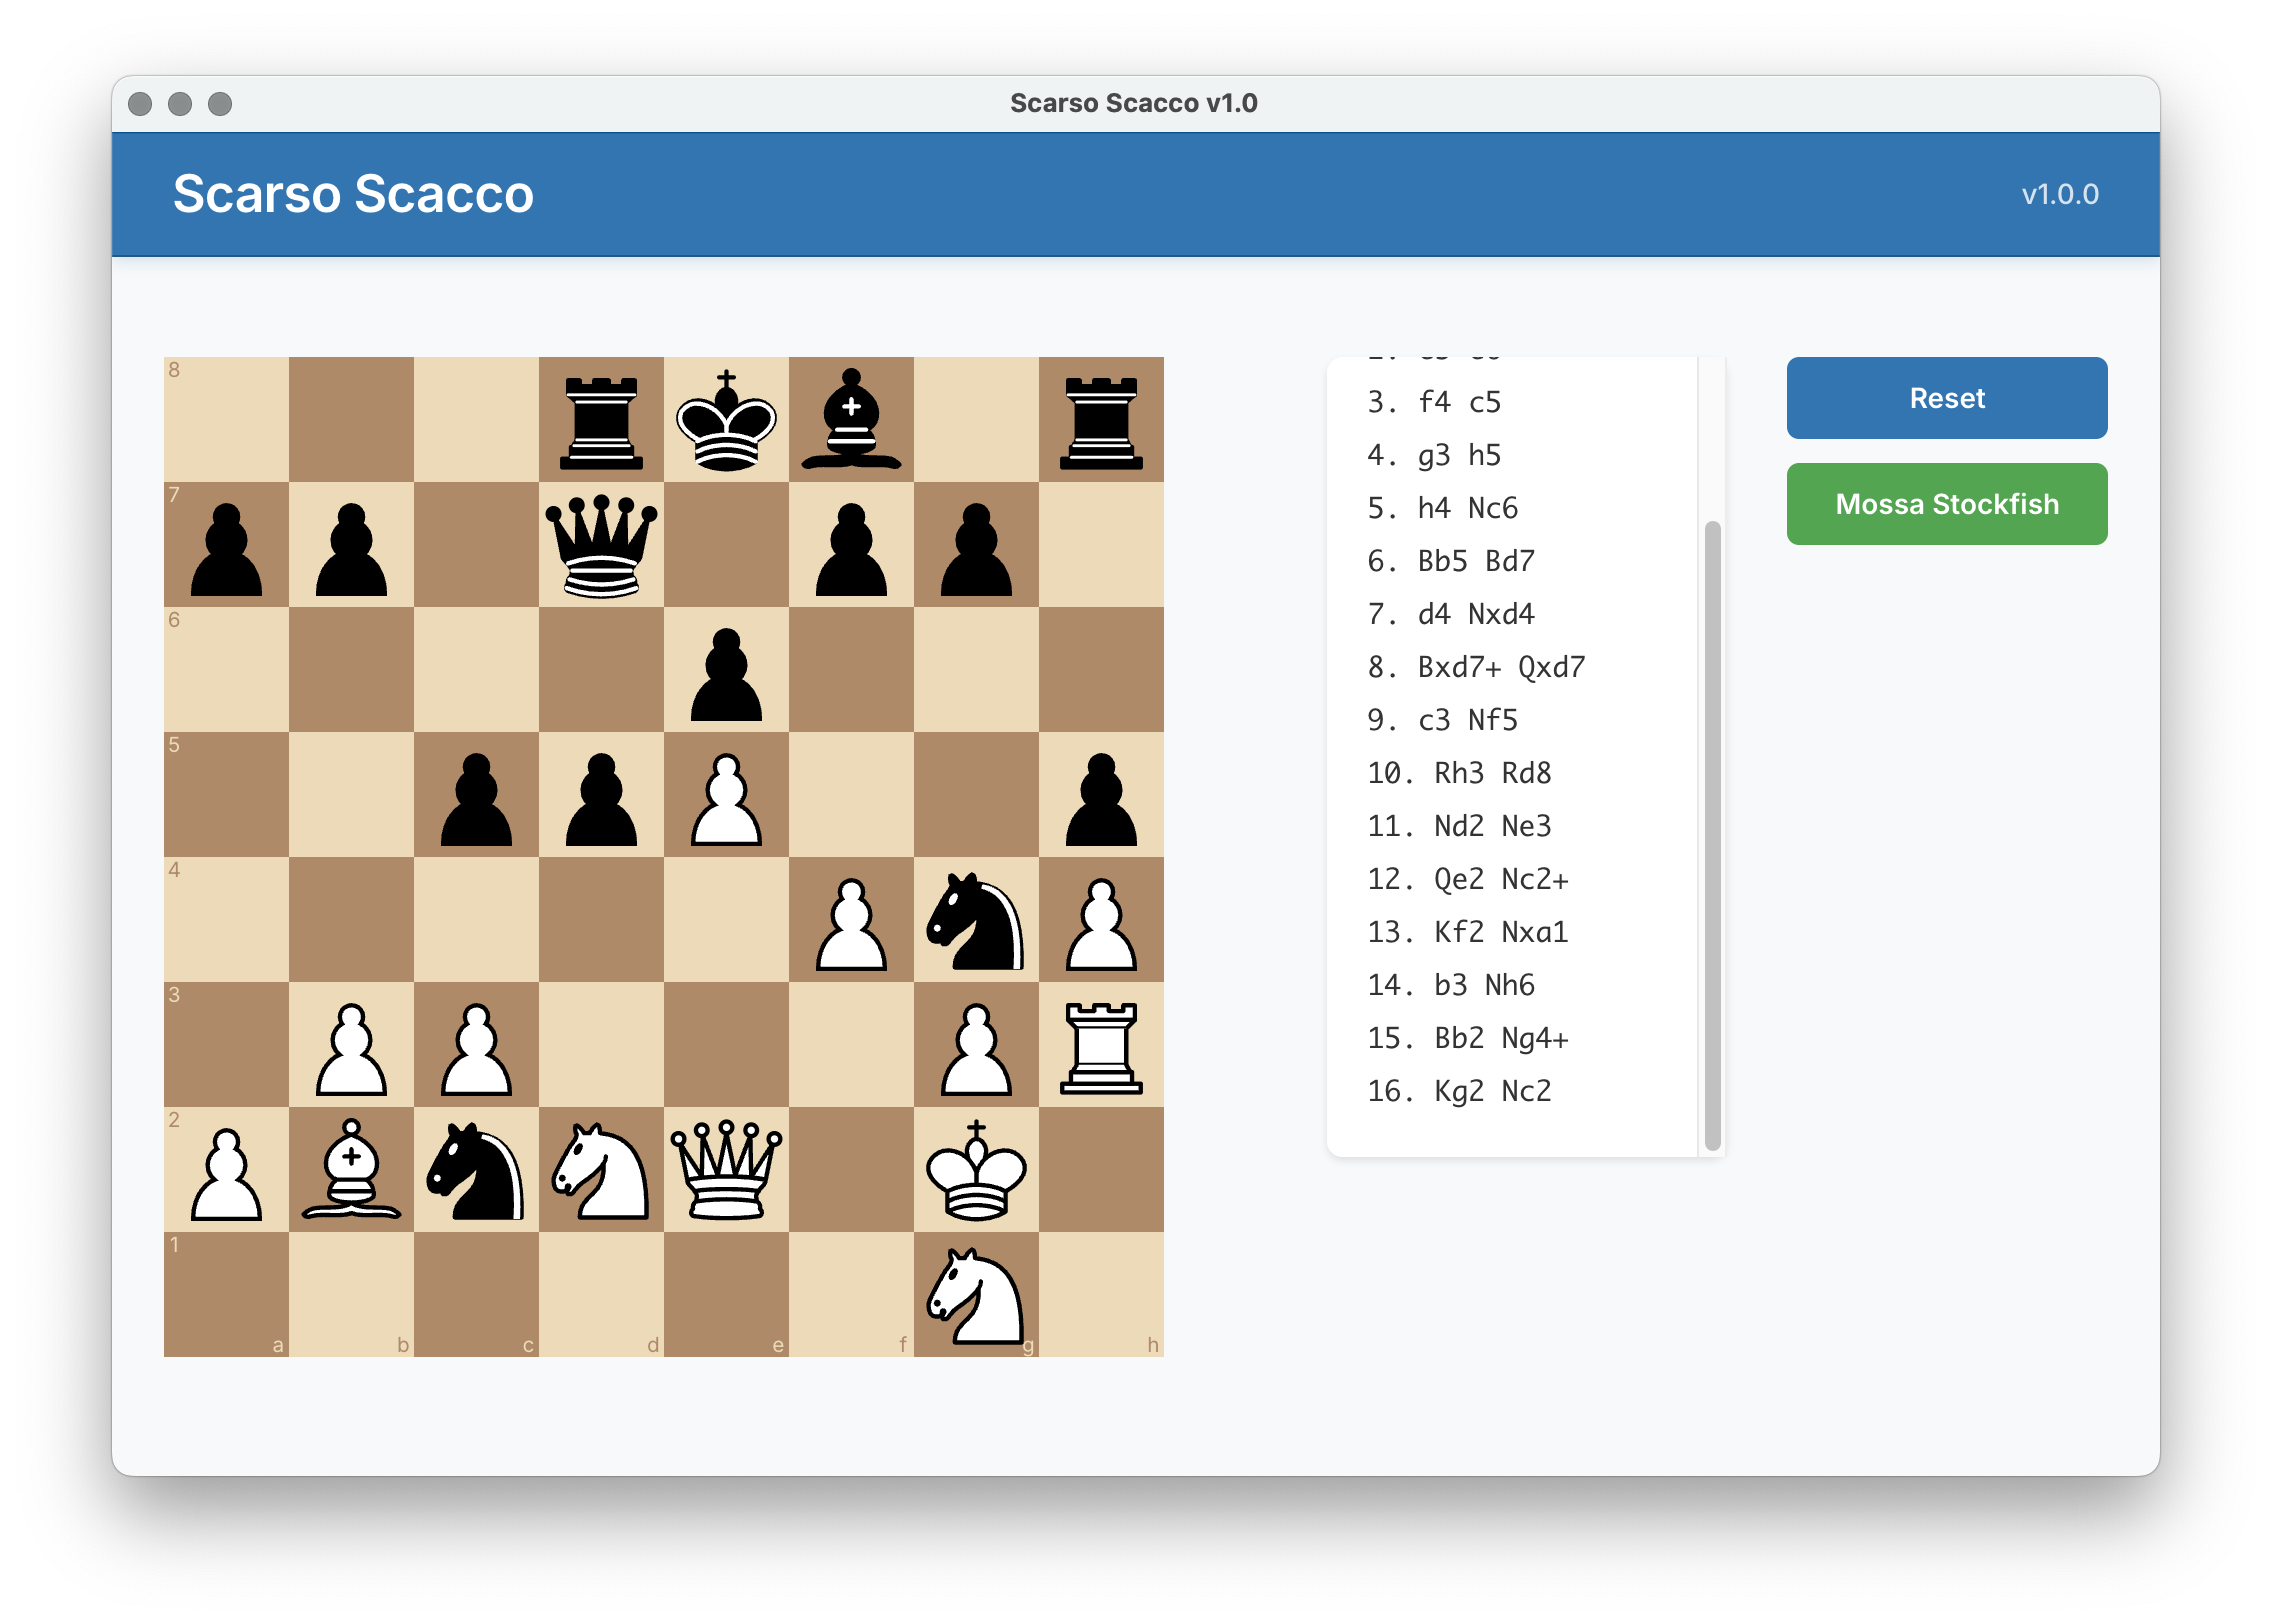
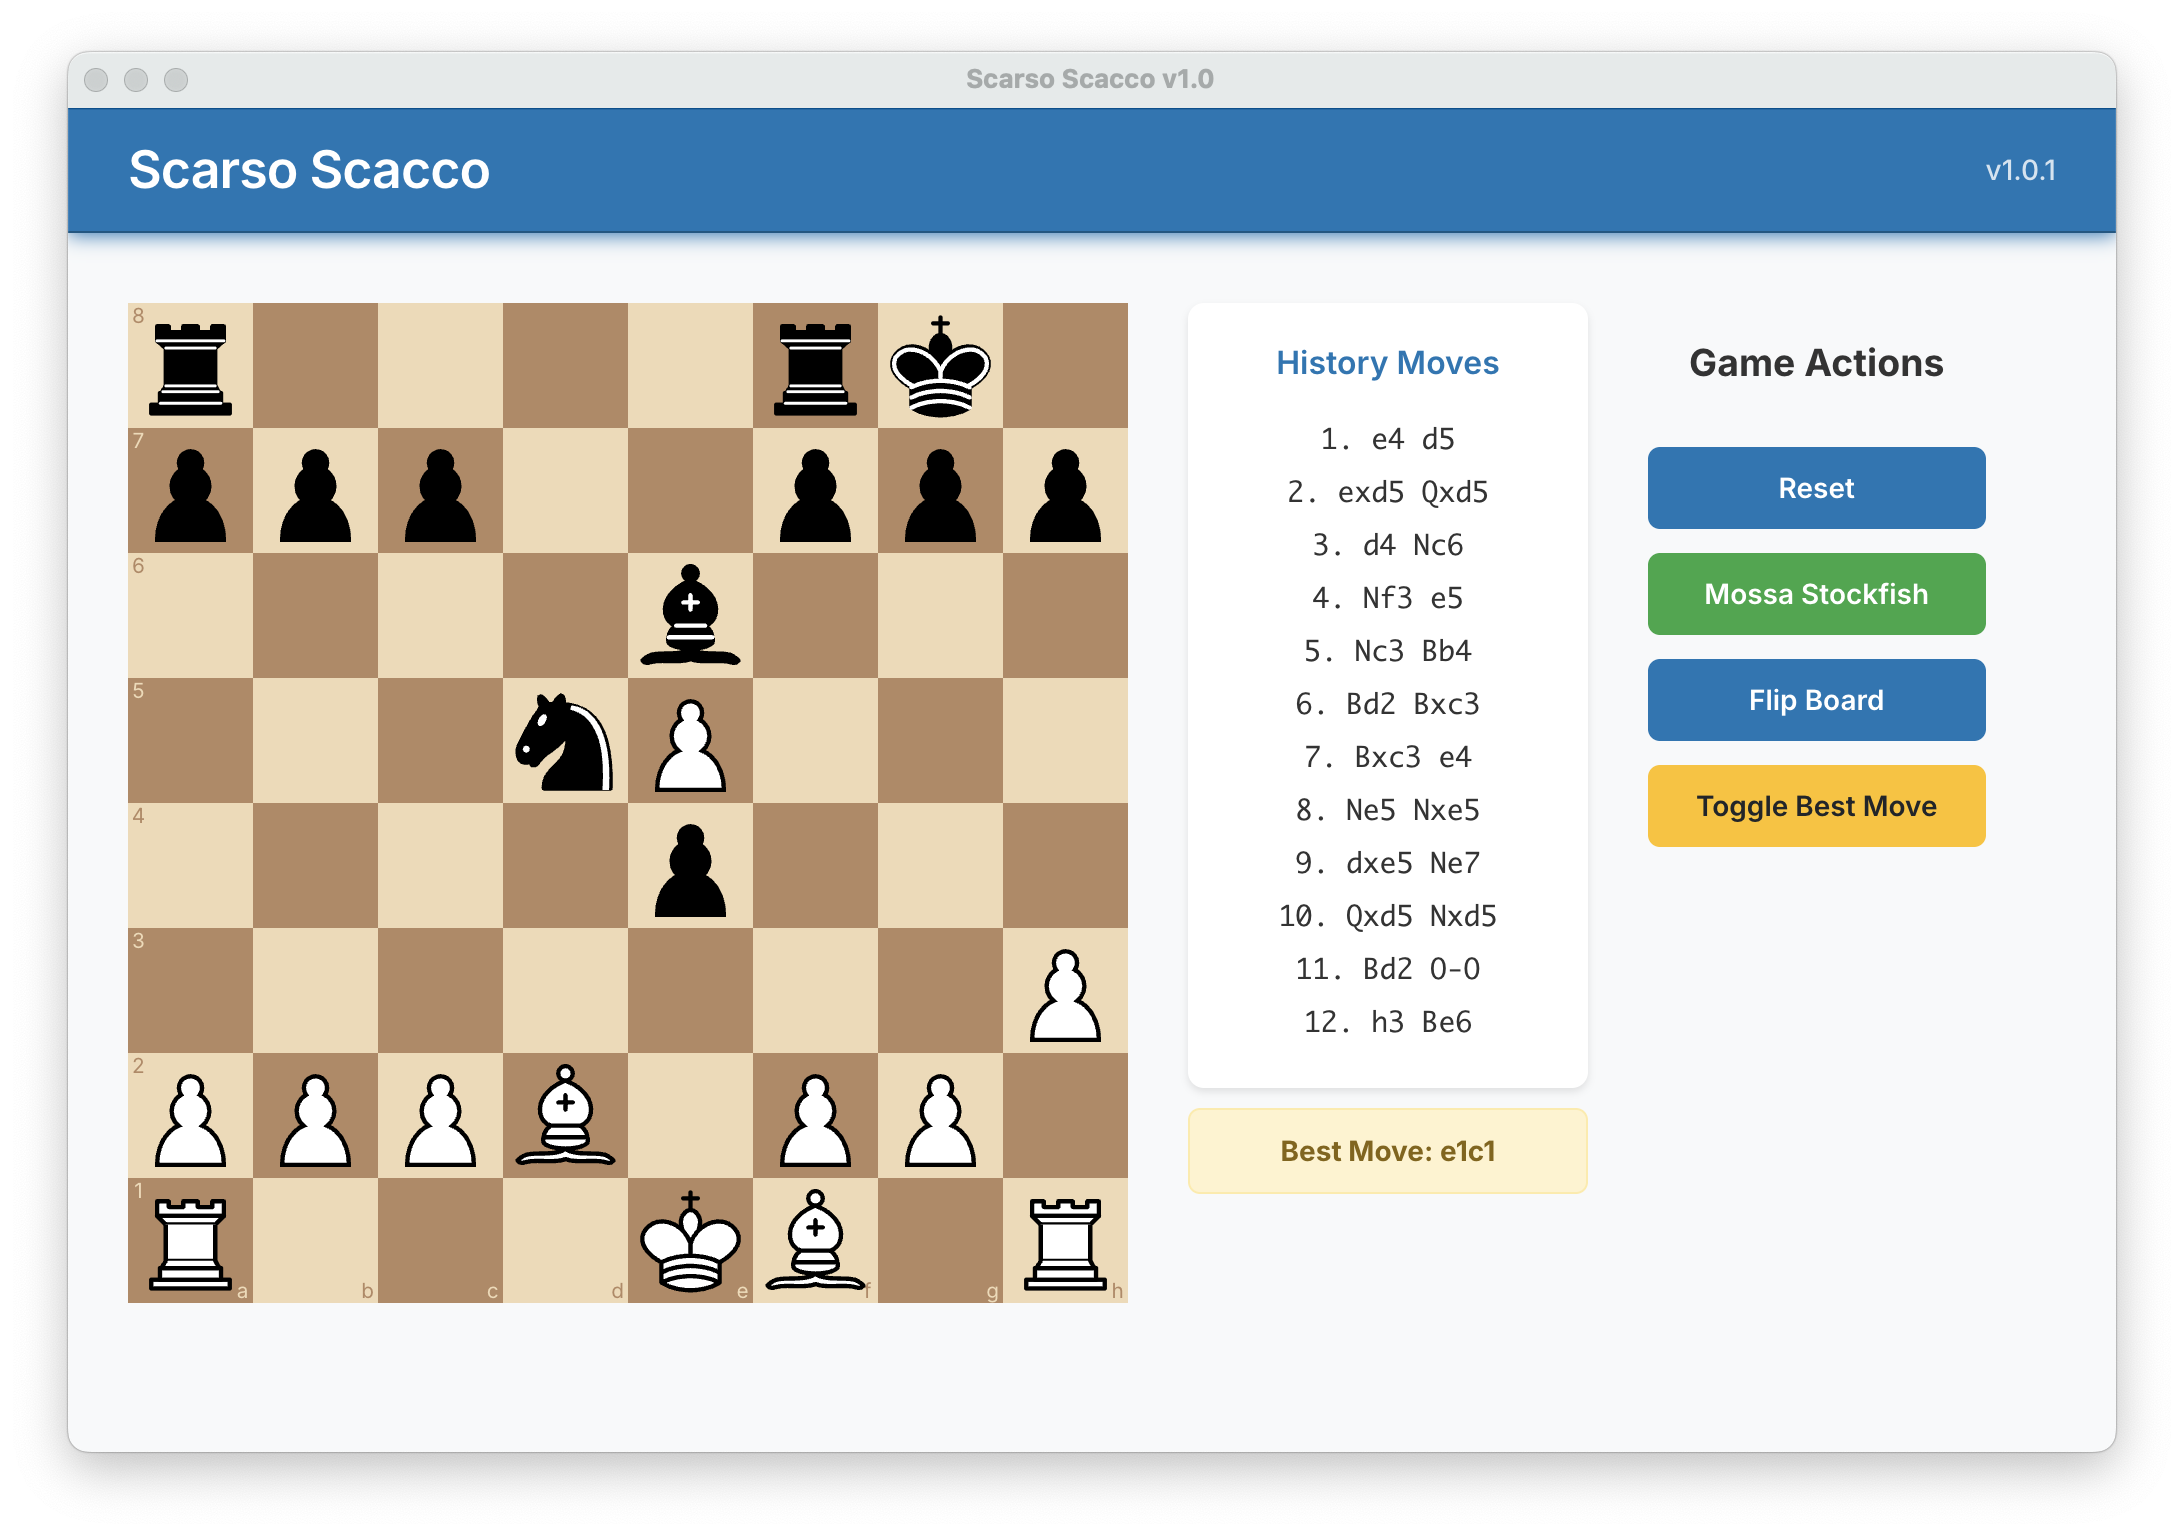
feat(stockfish): add best move indicator

Changed region(s): [[0.0311, 0.0312, 0.9963, 0.9688], [0.5916, 0.2188, 0.685, 0.6875]]

diff --git a/src/App.jsx b/src/App.jsx
@@ -10,6 +10,8 @@ export default function App() {
   const [history, setHistory] = useState([]);
   const [version, setVersion] = useState("");
   const [boardOrientation, setBoardOrientation] = useState("white");
+  const [bestMove, setBestMove] = useState("");
+  const [showBestMove, setShowBestMove] = useState(false);
   const movesRef = useRef(null);
 
   useEffect(() => {
@@ -64,6 +66,8 @@ export default function App() {
       if (!aiMove.error) {
         setFen(aiMove.fen);
         setHistory(await window.api.chessApi.getHistory());
+        // Aggiorna la mossa migliore dopo la mossa dell'AI
+        await updateBestMove(aiMove.fen);
       }
     } catch (error) {
       console.error("Errore Stockfish:", error);
@@ -86,6 +90,8 @@ export default function App() {
       if (!response.error) {
         setFen(response.fen);
         setHistory(await window.api.chessApi.getHistory());
+        // Aggiorna la mossa migliore dopo la mossa manuale di Stockfish
+        await updateBestMove(response.fen);
       }
     } catch (error) {
       console.error("Errore Stockfish:", error);
@@ -98,16 +104,50 @@ export default function App() {
       const result = await window.api.chessApi.resetGame();
       setFen(result.fen);
       setHistory([]);
+      // Aggiorna la mossa migliore dopo il reset
+      await updateBestMove(result.fen);
     } else {
       // Fallback se l'API non è disponibile
       setFen("start");
       setHistory([]);
+      // Aggiorna la mossa migliore dopo il reset
+      await updateBestMove("start");
     }
   };
 
   // Funzione per girare la scacchiera
   const handleFlipBoard = () => {
     setBoardOrientation((prev) => (prev === "white" ? "black" : "white"));
+  };
+
+  // Funzione per aggiornare la mossa migliore
+  const updateBestMove = async (currentFen) => {
+    if (showBestMove) {
+      try {
+        const bestMoveStr = await window.api.stockfish.getBestMove(currentFen);
+        setBestMove(bestMoveStr);
+      } catch (error) {
+        console.error("Errore nel recuperare la mossa migliore:", error);
+      }
+    }
+  };
+
+  // Funzione per mostrare/nascondere la mossa migliore
+  const handleShowBestMove = async () => {
+    if (showBestMove) {
+      // Hide the best move indicator
+      setShowBestMove(false);
+      setBestMove("");
+    } else {
+      // Show the best move indicator
+      try {
+        const bestMoveStr = await window.api.stockfish.getBestMove(fen);
+        setBestMove(bestMoveStr);
+        setShowBestMove(true);
+      } catch (error) {
+        console.error("Errore nel recuperare la mossa migliore:", error);
+      }
+    }
   };
 
   return (
@@ -123,11 +163,19 @@ export default function App() {
           />
         </div>
         <div className="right-panel">
-          <MovesHistory ref={movesRef} history={history} />
+          <div className="moves-indicator">
+            <MovesHistory ref={movesRef} history={history} />
+            {showBestMove && bestMove && (
+              <div className="best-move-indicator">
+                <strong>Best Move: {bestMove}</strong>
+              </div>
+            )}
+          </div>
           <GameActions
             onReset={handleReset}
             onStockfishMove={handleStockfishMove}
             onFlipBoard={handleFlipBoard}
+            onShowBestMove={handleShowBestMove}
           />
         </div>
       </div>

diff --git a/src/components/GameActions.jsx b/src/components/GameActions.jsx
@@ -1,6 +1,11 @@
 import PropTypes from "prop-types";
 
-export default function GameActions({ onReset, onStockfishMove, onFlipBoard }) {
+export default function GameActions({
+  onReset,
+  onStockfishMove,
+  onFlipBoard,
+  onShowBestMove,
+}) {
   return (
     <div className="actions-container">
       <h3>Game Actions</h3>
@@ -13,6 +18,9 @@ export default function GameActions({ onReset, onStockfishMove, onFlipBoard }) {
       <button onClick={onFlipBoard} className="btn btn-primary">
         Flip Board
       </button>
+      <button onClick={onShowBestMove} className="btn btn-warning">
+        Toggle Best Move
+      </button>
     </div>
   );
 }
@@ -21,4 +29,5 @@ GameActions.propTypes = {
   onReset: PropTypes.func.isRequired,
   onStockfishMove: PropTypes.func.isRequired,
   onFlipBoard: PropTypes.func.isRequired,
+  onShowBestMove: PropTypes.func.isRequired,
 };

diff --git a/src/App.css b/src/App.css
@@ -128,6 +128,39 @@
     background-color: #218838;
 }
 
+.btn-warning {
+    background-color: #ffc107;
+    color: #212529;
+}
+
+.btn-warning:hover {
+    background-color: #e0a800;
+}
+
+/* Best Move Indicator */
+.best-move-indicator {
+    background-color: #fff3cd;
+    border: 1px solid #ffeaa7;
+    border-radius: 6px;
+    padding: 12px;
+    margin: 10px 0;
+    text-align: center;
+    color: #856404;
+    font-size: 14px;
+    animation: fadeIn 0.3s ease-in-out;
+}
+
+@keyframes fadeIn {
+    from {
+        opacity: 0;
+        transform: translateY(-10px);
+    }
+    to {
+        opacity: 1;
+        transform: translateY(0);
+    }
+}
+
 /* Legacy styles - keeping for potential backward compatibility */
 #root {
     margin: 0 auto;

diff --git a/README.md b/README.md
@@ -41,24 +41,11 @@ npm run dev:electron
 ```
 
 This single command will:
+
 - Start the Vite dev server on `http://localhost:5173`
 - Wait for Vite to be ready
 - Automatically launch Electron with hot reload
 - Enable developer tools
-
-### Manual Start (Alternative)
-
-```bash
-# Start Vite development server
-npm run dev
-
-# In another terminal, start Electron
-npm run electron
-```
-
-This allows you to start each service manually for more control.
-
-## 🏗 Building for Production
 
 ### Build All Platforms
 
@@ -87,18 +74,7 @@ npm run build
 
 ## 📁 Output Files
 
-After building, you'll find the distributables in the `dist/` folder:
-
-### macOS
-- `Scarso Scacco-1.0.0-arm64.dmg` - DMG installer for Apple Silicon
-- `Scarso Scacco-1.0.0-x64.dmg` - DMG installer for Intel Macs
-
-### Windows
-- `Scarso Scacco Setup 1.0.0.exe` - NSIS installer (x64 + x86)
-- `Scarso Scacco 1.0.0.exe` - Portable executable (x64 only)
-
-### Linux
-- `Scarso Scacco-1.0.0.AppImage` - Universal Linux package
+Builded files will be found in the `dist/` folder.
 
 ## 🎮 How to Play
 
